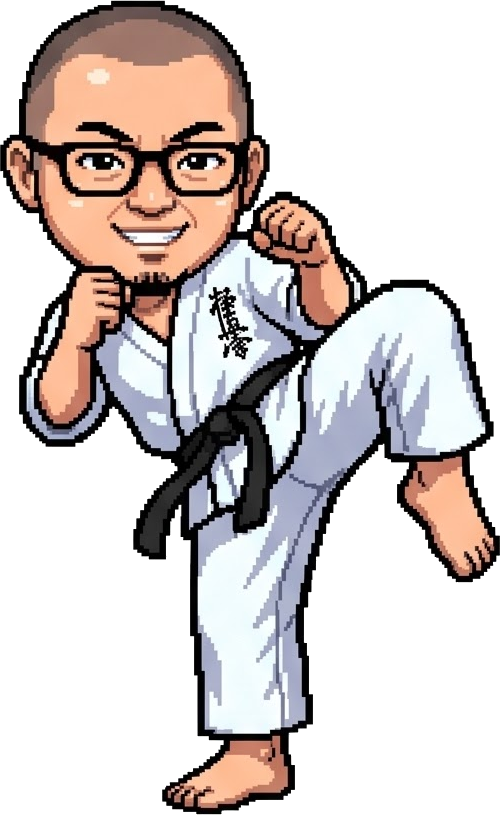
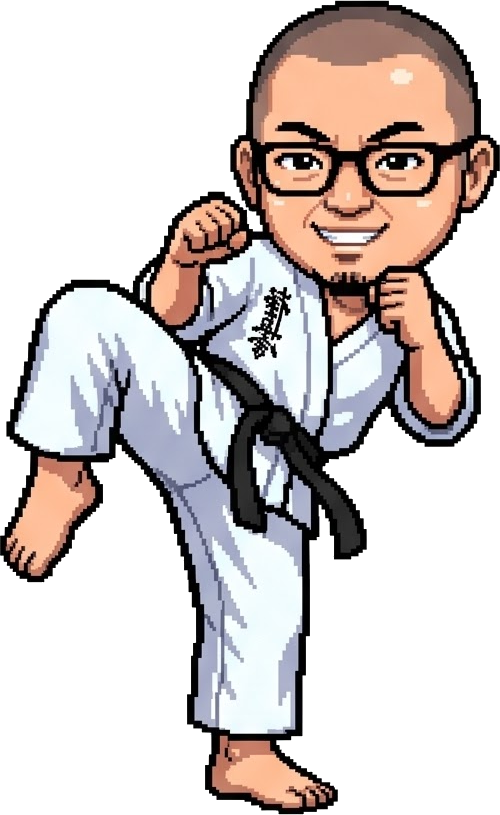
Reaction dojo: low block checks with the shin; high kick chambers the kicking leg
- First-person atlas gains a fifth cell (knee lift) used for the low
  block instead of the crossed arms; the renderer reads a 3x2 grid.
- High-kick wind-up mirrored so the chambered knee is the same right
  leg that lands the kick.
- Shin-check sprite is a placeholder; its prompt is in PROMPTS.md.

Claude-Session: https://claude.ai/code/session_01GPe7NTLQCYpuJm8yA2gNU2

diff --git a/sites/reaction-dojo/tools/build-fp-atlas.py b/sites/reaction-dojo/tools/build-fp-atlas.py
@@ -1,12 +1,14 @@
-"""Build first-person-atlas.png (2x2: guard, punch / block, kick), each cell one square transparent PNG.
+"""Build first-person-atlas.png (3x2: guard, punch, block / kick, lowblock, empty), each cell one square transparent PNG.
 usage: python3 build-fp-atlas.py <srcdir> <out.png> [cell=627]"""
 import sys,os
 from PIL import Image
 src,out=sys.argv[1],sys.argv[2]; cell=int(sys.argv[3]) if len(sys.argv)>3 else 627
-atlas=Image.new('RGBA',(cell*2,cell*2),(0,0,0,0))
-for i,name in enumerate(['guard','punch','block','kick']):
+COLS=3
+atlas=Image.new('RGBA',(cell*COLS,cell*2),(0,0,0,0))
+for i,name in enumerate(['guard','punch','block','kick','lowblock']):
+    if not os.path.exists(os.path.join(src,name+'.png')): print('missing',name); continue
     im=Image.open(os.path.join(src,name+'.png')).convert('RGBA')
     s=cell*0.8/max(im.size); im=im.resize((round(im.width*s),round(im.height*s)),Image.LANCZOS)
-    x=i%2*cell+(cell-im.width)//2; y=i//2*cell+(cell-im.height)   # bottom-aligned: sleeves enter from the frame bottom
+    x=i%COLS*cell+(cell-im.width)//2; y=i//COLS*cell+(cell-im.height)   # bottom-aligned: sleeves enter from the frame bottom
     atlas.alpha_composite(im,(x,y)); print(name,im.size,'->',(x,y))
 atlas.save(out); print('atlas',atlas.size,'->',out)

diff --git a/sites/reaction-dojo/PROMPTS.md b/sites/reaction-dojo/PROMPTS.md
@@ -108,3 +108,12 @@ First-person view from a karate student's OWN eyes, no body, no face. His own ri
 
 Pixel art, cute 16-bit retro fighting game style with crisp pixel outlines and a flat limited palette, no gradients, no realism, matching the attached sprite. Square picture. Plain solid white background, no shadow, no text.
 ```
+
+### 第一人稱：下段防守（提膝用脛骨擋）
+存檔名：`first-person/lowblock.png`
+
+```
+First-person view from a karate student's OWN eyes, no body, no face. He checks a low kick with his shin: his own right knee is lifted up in front of him, seen from above, the white karate gi trouser leg rising from the bottom right corner of the picture with the knee bent and pointing up and slightly left, shin turned outward, bare foot tucked below the knee and partly visible. His left fist stays small at the lower left in guard, seen from the back of the hand.
+
+Pixel art, cute 16-bit retro fighting game style with crisp pixel outlines and a flat limited palette, no gradients, no realism, matching the attached sprite. Square picture. Plain solid white background, no shadow, no text.
+```
